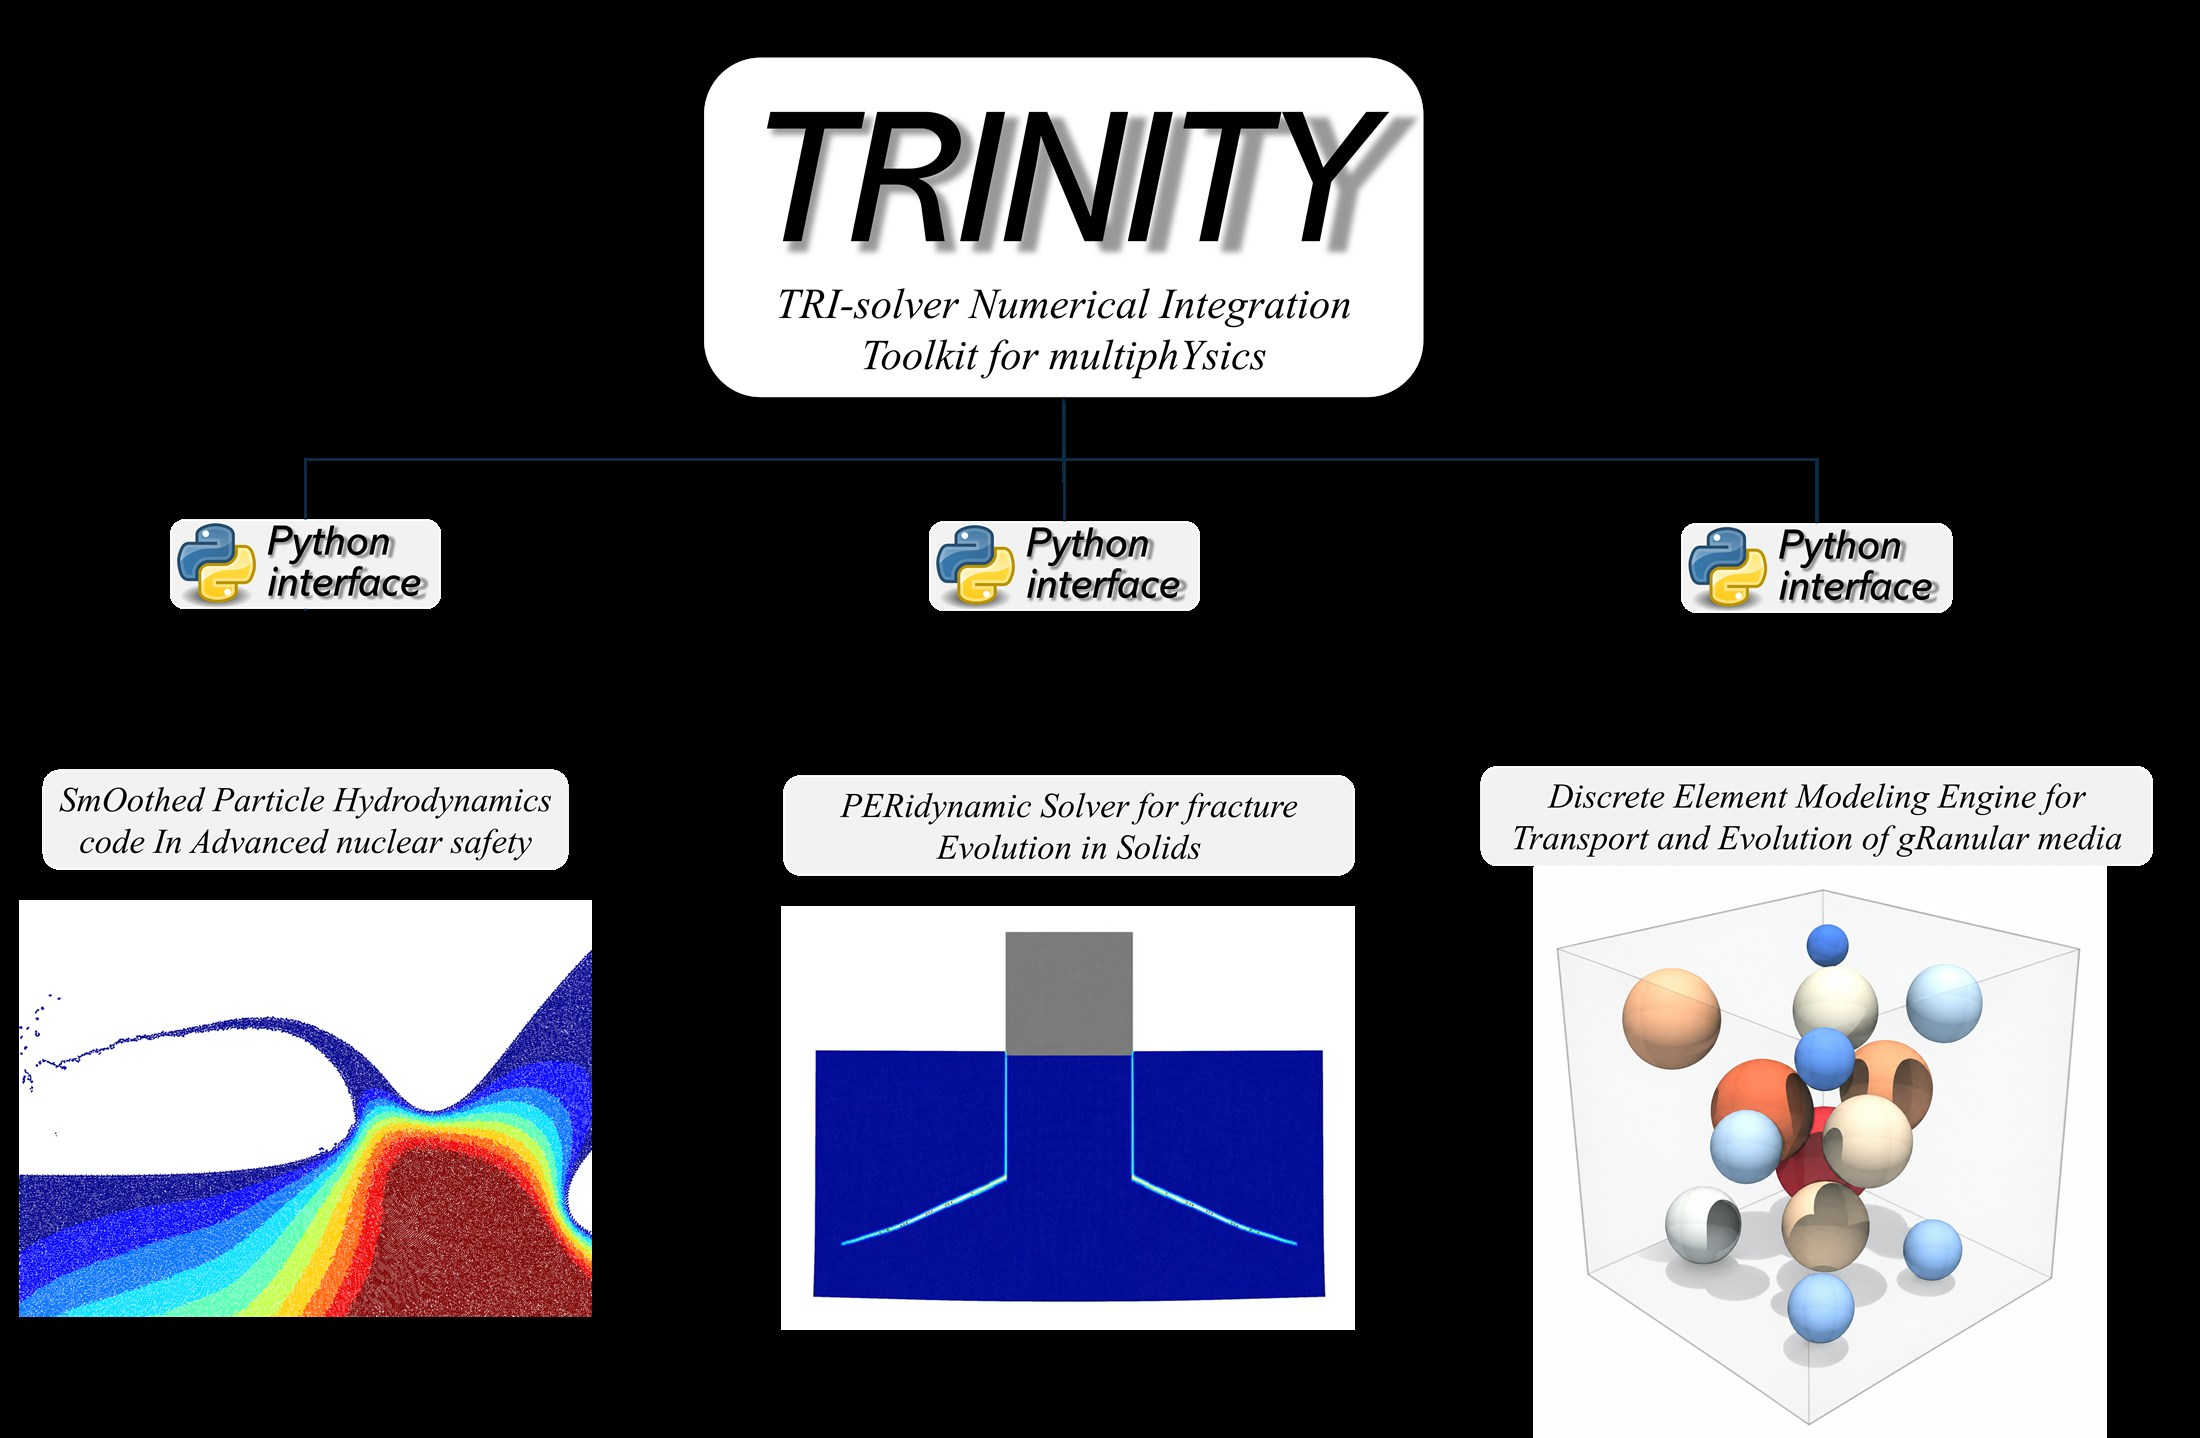
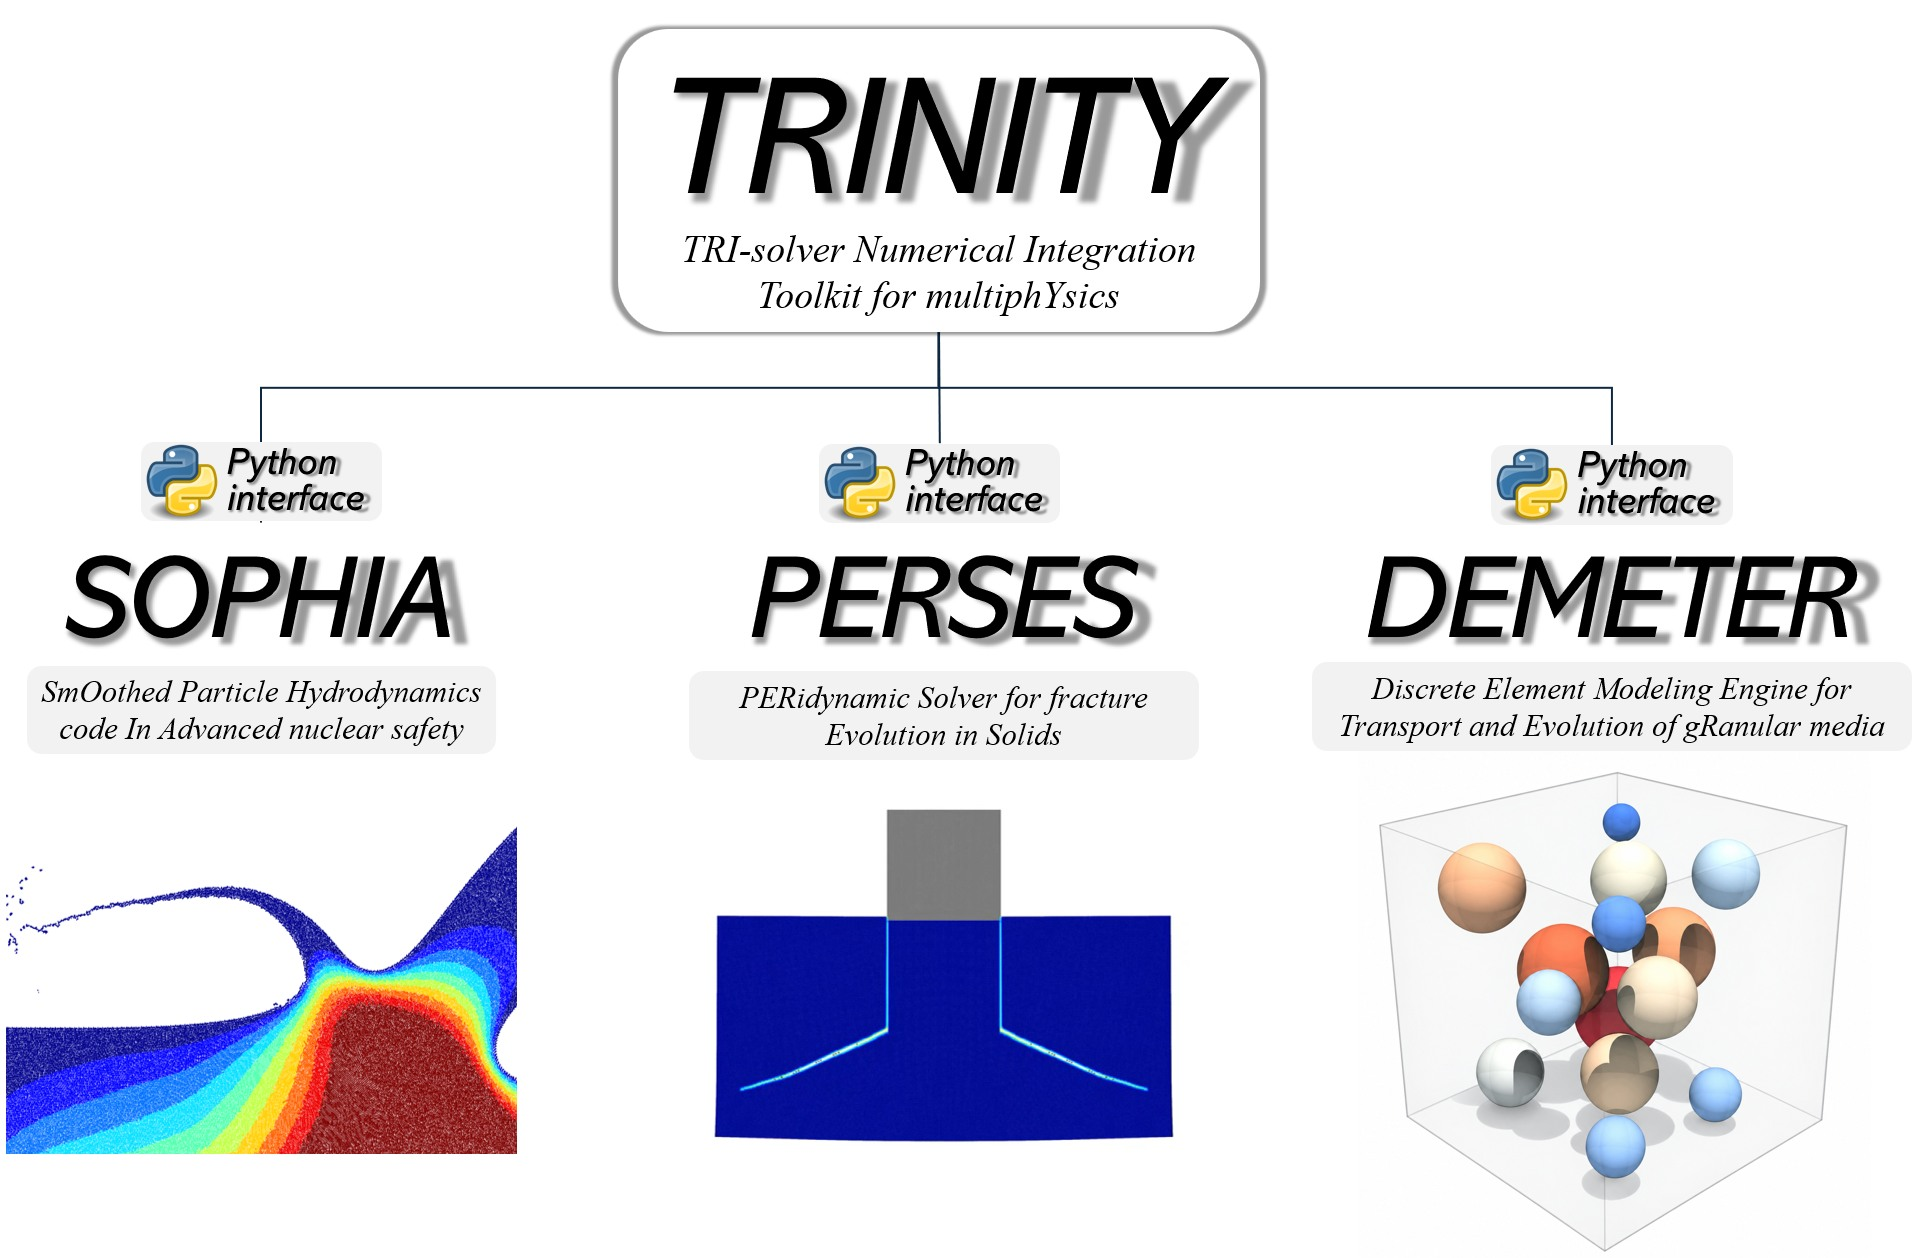
replace TRINITY overview with light version

diff --git a/research/research-topic.css b/research/research-topic.css
@@ -80,7 +80,7 @@ h2 { margin: 0 0 18px; color: var(--navy); font: 700 36px/1.15 Georgia, "Times N
 .toolkit-section { margin-top: 48px; padding-top: 38px; border-top: 1px solid var(--line); }
 .toolkit-section h2 { margin-bottom: 8px; }
 .toolkit-full-name { margin: 0 0 28px !important; color: var(--teal) !important; font-size: 16px !important; font-weight: 800; }
-.toolkit-visual { margin: 0 0 32px; overflow: hidden; border: 1px solid var(--line); border-radius: 18px; background: #000; box-shadow: 0 14px 34px rgba(11, 31, 58, .12); }
+.toolkit-visual { margin: 0 0 32px; overflow: hidden; border: 1px solid var(--line); border-radius: 18px; background: #fff; box-shadow: 0 14px 34px rgba(11, 31, 58, .12); }
 .toolkit-visual a { display: block; }
 .toolkit-visual img { display: block; width: 100%; height: auto; }
 .toolkit-section a { color: var(--teal); font-weight: 700; text-underline-offset: 3px; }
